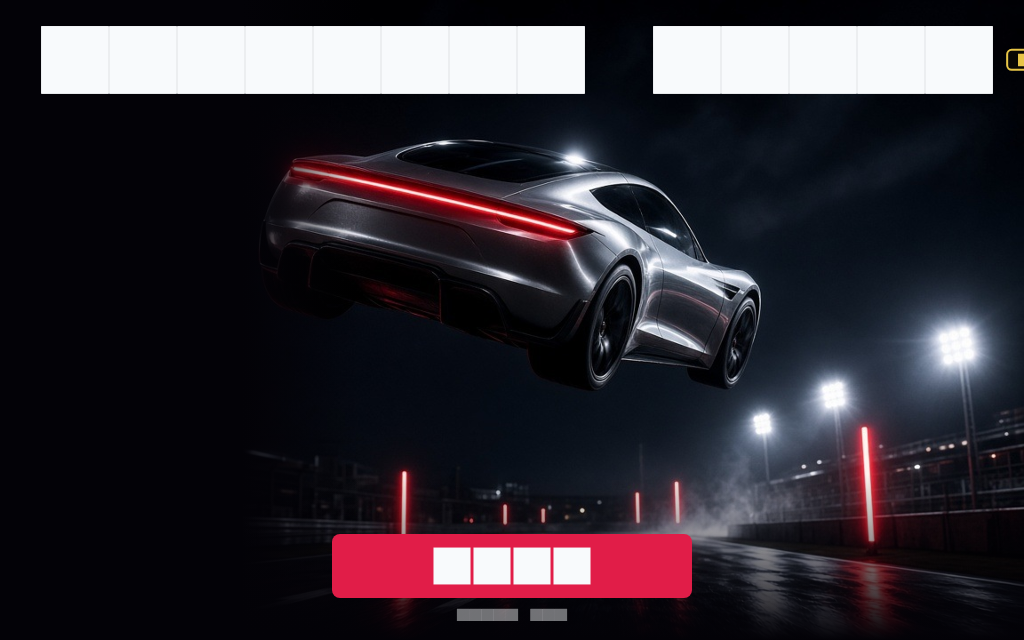
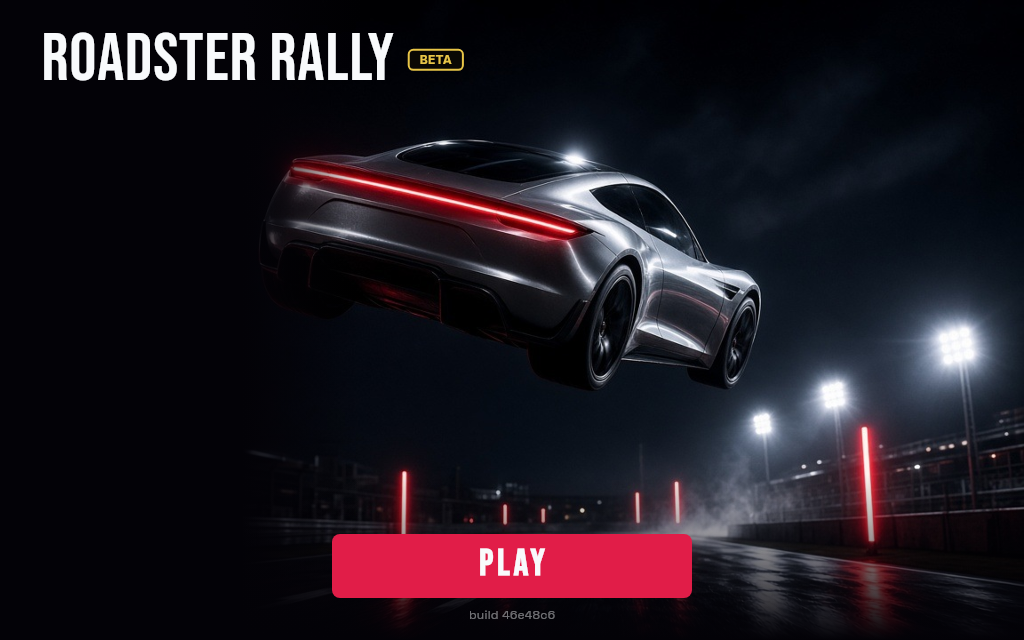
Preview-hotfix 46e48c6: final title captures + bundle.

Changed region(s): [[0.0312, 0.0312, 0.5938, 0.1562], [0.625, 0.0312, 1.0, 0.1562], [0.4062, 0.8438, 0.5938, 0.9688]]

diff --git a/roadster-rally/preview-hotfix/flutter_bootstrap.js b/roadster-rally/preview-hotfix/flutter_bootstrap.js
@@ -37,6 +37,6 @@ _flutter.buildConfig = {"engineRevision":"69c8c61792f04cc809dfef0c910414fb9afc06
 
 _flutter.loader.load({
   serviceWorkerSettings: {
-    serviceWorkerVersion: "2027765373" /* Flutter's service worker is deprecated and will be removed in a future Flutter release. */
+    serviceWorkerVersion: "1624753188" /* Flutter's service worker is deprecated and will be removed in a future Flutter release. */
   }
 });
